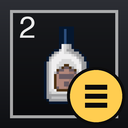
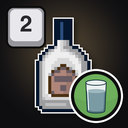
Enhance art assets and update make_art.py for improved hotbar visuals

diff --git a/scripts/make_art.py b/scripts/make_art.py
@@ -9,11 +9,12 @@ Needs Pillow. Reads item icons from the local Project Zomboid install (media/tex
 """
 
 import io
+import math
 import os
 import re
 import struct
 
-from PIL import Image, ImageDraw, ImageFont
+from PIL import Image, ImageChops, ImageDraw, ImageFilter, ImageFont
 
 HERE = os.path.dirname(os.path.abspath(__file__))
 REPO = os.path.dirname(HERE)
@@ -25,14 +26,15 @@ PZ = os.path.expanduser(
 PACKS = [os.path.join(PZ, "media", "texturepacks", name) for name in ("UI2.pack", "UI.pack")]
 FONT = "/System/Library/Fonts/Helvetica.ttc"
 
+UI = os.path.join(PZ, "media", "ui")
+
 SS = 4
-BG_TOP = (44, 46, 52)
-BG_BOTTOM = (14, 15, 18)
+GLOW = (78, 66, 48)
+DARK = (14, 14, 17)
 ACCENT = (255, 205, 80)
-BORDER = (204, 204, 204, 204)
-MENU_BG = (26, 26, 26, 235)
-MENU_HOVER = (80, 80, 80, 255)
-TEXT = (235, 235, 235, 255)
+BORDER = (204, 204, 204, 255)
+GOOD = (110, 176, 92)
+INK = (12, 12, 12, 255)
 
 _PACKS = {}
 
@@ -86,132 +88,176 @@ def item_icon(name):
     raise SystemExit("No icon named %s in UI2.pack or UI.pack" % name)
 
 
-def blend(a, b, t):
-    return tuple(round(x + (y - x) * t) for x, y in zip(a, b))
+def ui_image(name):
+    path = os.path.join(UI, name)
+    if not os.path.exists(path):
+        raise SystemExit("Missing game image: " + path)
+    return Image.open(path).convert("RGBA")
+
+
+def font(px, bold=False):
+    return ImageFont.truetype(FONT, max(6, round(px)), index=1 if bold else 0)
 
 
 def backdrop(size):
+    """Dark, with a warm glow behind the bottle."""
     img = Image.new("RGBA", (size, size))
-    d = ImageDraw.Draw(img)
+    px = img.load()
+    cx, cy, r = size * 0.5, size * 0.4, size * 0.62
     for y in range(size):
-        d.line([(0, y), (size, y)], fill=blend(BG_TOP, BG_BOTTOM, y / max(1, size - 1)) + (255,))
+        for x in range(size):
+            t = min(1.0, ((x - cx) ** 2 + (y - cy) ** 2) ** 0.5 / r)
+            t = t * t * (3 - 2 * t)
+            px[x, y] = tuple(round(a + (b - a) * t) for a, b in zip(GLOW, DARK)) + (255,)
     return img
 
 
-def font(px):
-    return ImageFont.truetype(FONT, max(6, round(px)))
+def dilate(alpha, px):
+    return alpha.filter(ImageFilter.MaxFilter(2 * px + 1)) if px > 0 else alpha
 
 
-def paste_icon(img, icon, box):
-    """Pixel art: whole-number nearest-neighbour scale, centred in box."""
-    x0, y0, x1, y1 = box
-    scale = max(1, int(min(x1 - x0, y1 - y0) * 0.8 // icon.width))
-    grown = icon.resize((icon.width * scale, icon.height * scale), Image.NEAREST)
-    img.alpha_composite(grown, (round((x0 + x1 - grown.width) / 2), round((y0 + y1 - grown.height) / 2)))
+def sticker(icon, scale, ring):
+    """Pixel art scaled by a whole number, with a thin dark line and then a white outline one art
+    pixel wide, stepped like the pixels (the series' sticker look)."""
+    art = icon.resize((icon.width * scale, icon.height * scale), Image.NEAREST)
+    pad = ring * 3
+    canvas = Image.new("RGBA", (art.width + pad * 2, art.height + pad * 2), (0, 0, 0, 0))
+    canvas.alpha_composite(art, (pad, pad))
+    alpha = canvas.getchannel("A").point(lambda a: 255 if a > 40 else 0)
+    out = Image.new("RGBA", canvas.size, (0, 0, 0, 0))
+    white = Image.new("RGBA", canvas.size, (255, 255, 255, 255))
+    dark = max(1, ring // 3)
+    out.paste(white, (0, 0), dilate(alpha, ring + dark))
+    out.paste(Image.new("RGBA", canvas.size, INK), (0, 0), dilate(alpha, dark))
+    out.alpha_composite(canvas)
+    return out
 
 
-def slot(img, box, number, icon, hovered, k):
+def shadow(img, layer, at, blur, alpha, offset):
+    mask = layer.getchannel("A").point(lambda a: a * alpha // 255)
+    pad = blur * 3
+    sh = Image.new("RGBA", (layer.width + pad * 2, layer.height + pad * 2), (0, 0, 0, 0))
+    black = Image.new("RGBA", layer.size, (0, 0, 0, 255))
+    sh.paste(black, (pad, pad), mask)
+    sh = sh.filter(ImageFilter.GaussianBlur(blur))
+    img.alpha_composite(sh, (at[0] - pad + offset[0], at[1] - pad + offset[1]))
+
+
+def place(img, layer, centre):
+    at = (round(centre[0] - layer.width / 2), round(centre[1] - layer.height / 2))
+    img.alpha_composite(layer, at)
+    return at
+
+
+def slot(img, box, number, icon, k, lit=False):
+    """A hotbar slot as the game draws it: thin light border, the slot number top left."""
     layer = Image.new("RGBA", img.size, (0, 0, 0, 0))
     d = ImageDraw.Draw(layer)
-    d.rectangle(box, fill=(0, 0, 0, 110))
-    if hovered:
-        d.rectangle(box, fill=(255, 255, 255, 50))
-    d.rectangle(box, outline=BORDER, width=max(1, round(2 * k)))
+    d.rectangle(box, fill=(255, 255, 255, 46) if lit else (0, 0, 0, 120))
+    d.rectangle(box, outline=ACCENT + (255,) if lit else BORDER, width=max(1, round(3 * k)))
     img.alpha_composite(layer)
-    paste_icon(img, icon, box)
-    ImageDraw.Draw(img).text((box[0] + round(6 * k), box[1] + round(3 * k)), number, font=font(20 * k), fill=TEXT)
+    if icon is not None:
+        scale = max(1, int((box[2] - box[0]) * 0.78 // icon.width))
+        art = icon.resize((icon.width * scale, icon.height * scale), Image.NEAREST)
+        place(img, art, ((box[0] + box[2]) / 2, (box[1] + box[3]) / 2))
+    ImageDraw.Draw(img).text((box[0] + round(8 * k), box[1] + round(4 * k)), number, font=font(24 * k),
+                             fill=(255, 255, 255, 255))
 
 
-def arrow(d, x, cy, k):
-    s = 5 * k
-    d.polygon([(x - s, cy - s), (x + s * 0.4, cy), (x - s, cy + s)], fill=TEXT)
-
-
-def check(d, x, cy, k):
-    w = max(2, round(3 * k))
-    d.line([(x, cy), (x + 5 * k, cy + 5 * k), (x + 13 * k, cy - 6 * k)], fill=ACCENT + (255,), width=w, joint="curve")
-
-
-def menu(img, x, y, w, rows, k, hover=None):
-    """rows: (text, has_submenu, checked). Drawn like the game's context menu."""
-    row_h = round(30 * k)
-    pad = round(6 * k)
-    h = row_h * len(rows) + pad * 2
-    layer = Image.new("RGBA", img.size, (0, 0, 0, 0))
-    d = ImageDraw.Draw(layer)
-    d.rectangle([x, y, x + w, y + h], fill=MENU_BG, outline=(110, 110, 110, 255), width=max(1, round(2 * k)))
-    if hover is not None:
-        top = y + pad + hover * row_h
-        d.rectangle([x + round(3 * k), top, x + w - round(3 * k), top + row_h], fill=MENU_HOVER)
-    img.alpha_composite(layer)
+def keycap(size, label):
+    """A keyboard key, light grey with a darker base, the label in bold."""
+    w = size
+    h = round(size * 1.06)
+    img = Image.new("RGBA", (w, h), (0, 0, 0, 0))
     d = ImageDraw.Draw(img)
-    f = font(17 * k)
-    for i, (text, sub, checked) in enumerate(rows):
-        cy = y + pad + i * row_h + row_h / 2
-        if checked:
-            check(d, x + round(8 * k), cy, k)
-        d.text((x + round(30 * k), cy), text, font=f, fill=TEXT, anchor="lm")
-        if sub:
-            arrow(d, x + w - round(14 * k), cy, k)
-    return [(x, y + pad + i * row_h, x + w, y + pad + (i + 1) * row_h) for i in range(len(rows))]
+    r = round(size * 0.18)
+    edge = max(2, round(size * 0.05))
+    d.rounded_rectangle([0, 0, w - 1, h - 1], radius=r, fill=INK)
+    d.rounded_rectangle([edge, edge, w - 1 - edge, h - 1 - edge], radius=r - edge, fill=(150, 150, 156, 255))
+    d.rounded_rectangle([edge * 2, edge * 1.6, w - 1 - edge * 2, h - 1 - edge * 3.6], radius=r - edge,
+                        fill=(232, 232, 236, 255))
+    d.text((w / 2, (h - edge * 2) / 2), label, font=font(size * 0.56, bold=True), fill=(40, 40, 44, 255), anchor="mm")
+    return img
+
+
+def moodle(size):
+    """The game's Thirst moodle on a good-moodle green background, ringed so it reads as a badge."""
+    bg = ui_image("Moodles/128/_Moodles_BGsolid.png")
+    tint = Image.new("RGBA", bg.size, GOOD + (255,))
+    disc = ImageChops.multiply(bg, tint)
+    disc.putalpha(bg.getchannel("A"))
+    glass = ui_image("Moodles/128/Status_Thirst.png")
+    disc.alpha_composite(glass)
+    disc = disc.resize((size, size), Image.LANCZOS)
+    ring = max(2, round(size * 0.045))
+    out = Image.new("RGBA", (size + ring * 4, size + ring * 4), (0, 0, 0, 0))
+    d = ImageDraw.Draw(out)
+    d.ellipse([0, 0, out.width - 1, out.height - 1], fill=(255, 255, 255, 255))
+    d.ellipse([ring, ring, out.width - 1 - ring, out.height - 1 - ring], fill=INK)
+    out.alpha_composite(disc, (ring * 2, ring * 2))
+    return out
 
 
 def poster(size):
-    """The hotbar with a baseball bat, whiskey and painkillers; the whiskey's right-click menu
-    is open on Change Default Action > Every Whiskey, with Drink > All ticked."""
     k = size / 512.0
     img = backdrop(size)
-    icons = [item_icon("Item_BaseballBat"), item_icon("Item_Whiskey"), item_icon("Item_PillsPainkiller")]
-    cell = round(112 * k)
-    pad = round(18 * k)
-    total = cell * 3 + pad * 2
-    left = (size - total) // 2
-    top = size - cell - round(40 * k)
-    bar = Image.new("RGBA", img.size, (0, 0, 0, 0))
-    ImageDraw.Draw(bar).rectangle(
-        [left - pad, top - pad, left + total + pad, top + cell + pad],
-        fill=(0, 0, 0, 120), outline=BORDER, width=max(1, round(2 * k)))
-    img.alpha_composite(bar)
-    for i, icon in enumerate(icons):
-        x = left + i * (cell + pad)
-        slot(img, (x, top, x + cell, top + cell), str(i + 1), icon, i == 1, k)
+    bat = item_icon("Item_BaseballBat")
+    whiskey = item_icon("Item_Whiskey")
+    pills = item_icon("Item_PillsPainkiller")
 
-    root = menu(img, round(16 * k), round(40 * k), round(224 * k), [
-        ("Drink", True, False),
-        ("Rename", False, False),
-        ("Remove from Hotbar", False, False),
-        ("Change Default Action", True, False),
-    ], k, hover=3)
-    sub_x = root[3][2] - round(4 * k)
-    sub = menu(img, sub_x, root[3][1] - round(6 * k), round(212 * k), [
-        ("Every Whiskey", True, True),
-        ("Only this Whiskey", True, False),
-    ], k, hover=0)
-    menu(img, sub_x, sub[1][3] + round(14 * k), round(236 * k), [
-        ("The game's usual action", False, False),
-        ("Drink > All", False, True),
-        ("Drink > Half", False, False),
-        ("Drink > Quarter", False, False),
-    ], k, hover=1)
+    cell = round(128 * k)
+    gap = round(16 * k)
+    total = cell * 3 + gap * 2
+    left = (size - total) // 2
+    top = size - cell - round(34 * k)
+    bar = Image.new("RGBA", img.size, (0, 0, 0, 0))
+    ImageDraw.Draw(bar).rectangle([left - gap, top - gap, left + total + gap, top + cell + gap],
+                                  fill=(0, 0, 0, 130), outline=BORDER, width=max(1, round(2 * k)))
+    img.alpha_composite(bar)
+    boxes = [(left + i * (cell + gap), top, left + i * (cell + gap) + cell, top + cell) for i in range(3)]
+    slot(img, boxes[0], "1", bat, k)
+    slot(img, boxes[1], "2", None, k, lit=True)
+    slot(img, boxes[2], "3", pills, k)
+
+    bottle = sticker(whiskey, max(1, round(7 * k)), max(1, round(7 * k)))
+    centre = (size / 2, round(178 * k))
+    at = (round(centre[0] - bottle.width / 2), round(centre[1] - bottle.height / 2))
+    shadow(img, bottle, at, max(2, round(10 * k)), 170, (round(10 * k), round(14 * k)))
+    img.alpha_composite(bottle, at)
+
+    d = ImageDraw.Draw(img)
+    s2 = boxes[1]
+    for dx in (-30, 0, 30):
+        x = (s2[0] + s2[2]) / 2 + dx * k
+        y0, y1 = s2[1] - round(10 * k), s2[1] - round((34 if dx else 46) * k)
+        d.line([(x, y0), (x, y1)], fill=(0, 0, 0, 200), width=max(2, round(10 * k)))
+        d.line([(x, y0), (x, y1)], fill=ACCENT + (255,), width=max(2, round(5 * k)))
+
+    key = keycap(round(92 * k), "2")
+    key_at = (at[0] - round(34 * k), at[1] + round(18 * k))
+    shadow(img, key, key_at, max(2, round(6 * k)), 160, (round(6 * k), round(8 * k)))
+    img.alpha_composite(key, key_at)
+
+    badge = moodle(round(104 * k))
+    badge_at = (at[0] + bottle.width - round(96 * k), at[1] + bottle.height - badge.height + round(14 * k))
+    shadow(img, badge, badge_at, max(2, round(6 * k)), 160, (round(6 * k), round(8 * k)))
+    img.alpha_composite(badge, badge_at)
     return img
 
 
 def icon(size):
-    """One hotbar slot holding whiskey, with a menu badge: the slot does what you picked."""
     big = size * SS
     k = big / 128.0
     img = backdrop(big)
-    m = round(10 * k)
-    slot(img, (m, m, big - m, big - m), "2", item_icon("Item_Whiskey"), False, k * 1.5)
-    r = round(26 * k)
-    cx, cy = big - m - r + round(4 * k), big - m - r + round(4 * k)
-    d = ImageDraw.Draw(img)
-    d.ellipse([cx - r - round(3 * k), cy - r - round(3 * k), cx + r + round(3 * k), cy + r + round(3 * k)], fill=(12, 12, 12, 255))
-    d.ellipse([cx - r, cy - r, cx + r, cy + r], fill=ACCENT + (255,))
-    w = round(5 * k)
-    for dy in (-9, 0, 9):
-        yy = cy + round(dy * k)
-        d.line([(cx - round(11 * k), yy), (cx + round(11 * k), yy)], fill=(12, 12, 12, 255), width=w)
+    bottle = sticker(item_icon("Item_Whiskey"), round(3 * k), round(1.2 * k))
+    centre = (big * 0.47, big * 0.5)
+    at = (round(centre[0] - bottle.width / 2), round(centre[1] - bottle.height / 2))
+    shadow(img, bottle, at, round(3 * k), 160, (round(2 * k), round(3 * k)))
+    img.alpha_composite(bottle, at)
+    key = keycap(round(40 * k), "2")
+    img.alpha_composite(key, (round(6 * k), round(6 * k)))
+    badge = moodle(round(46 * k))
+    img.alpha_composite(badge, (big - badge.width - round(5 * k), big - badge.height - round(5 * k)))
     return img.resize((size, size), Image.LANCZOS)
 
 

diff --git a/CLAUDE.md b/CLAUDE.md
@@ -64,9 +64,14 @@ First implementation (2026-10-02), not yet run in game. Only checked with luapar
     option drops its icon because `ISContextMenu:render` draws the tick where the icon goes. Works in the hotbar's
     right-click and in the inventory window's (the item is on the hotbar there too).
 - Translations: `shared/Translate/EN/IG_UI.json` (`IGUI_TienActionableHotbar_*`).
-- `scripts/make_art.py`: icon (a hotbar slot with whiskey and a menu badge), poster / preview (the hotbar with bat,
-  whiskey, painkillers and the menu open). Item icons come from the game's packs: B42 ones (Item_Whiskey) in
-  `UI2.pack`, older ones (Item_BaseballBat, Item_PillsPainkiller) only in `UI.pack`; same entry format.
+- `scripts/make_art.py`: no text, in the series' sticker style (pixel art scaled by whole numbers, thin dark line +
+  white outline one art pixel wide, soft shadow, warm glow on dark). Poster / preview: the whiskey rising out of the
+  lit slot 2 of a vanilla-looking hotbar (bat in 1, painkillers in 3), a drawn "2" key cap at its top left and the
+  game's Thirst moodle (`Moodles/128/Status_Thirst.png` on `_Moodles_BGsolid.png` tinted good-green) as a badge at
+  its bottom right: press 2, drink. Icon: the same bottle, key cap and badge. A first version showed a mock context
+  menu with text; the user asked for a better picture. Item icons come from the game's packs: B42 ones
+  (Item_Whiskey) in `UI2.pack`, older ones (Item_BaseballBat, Item_PillsPainkiller) only in `UI.pack`; same entry
+  format.
 
 ## To verify in game
 
